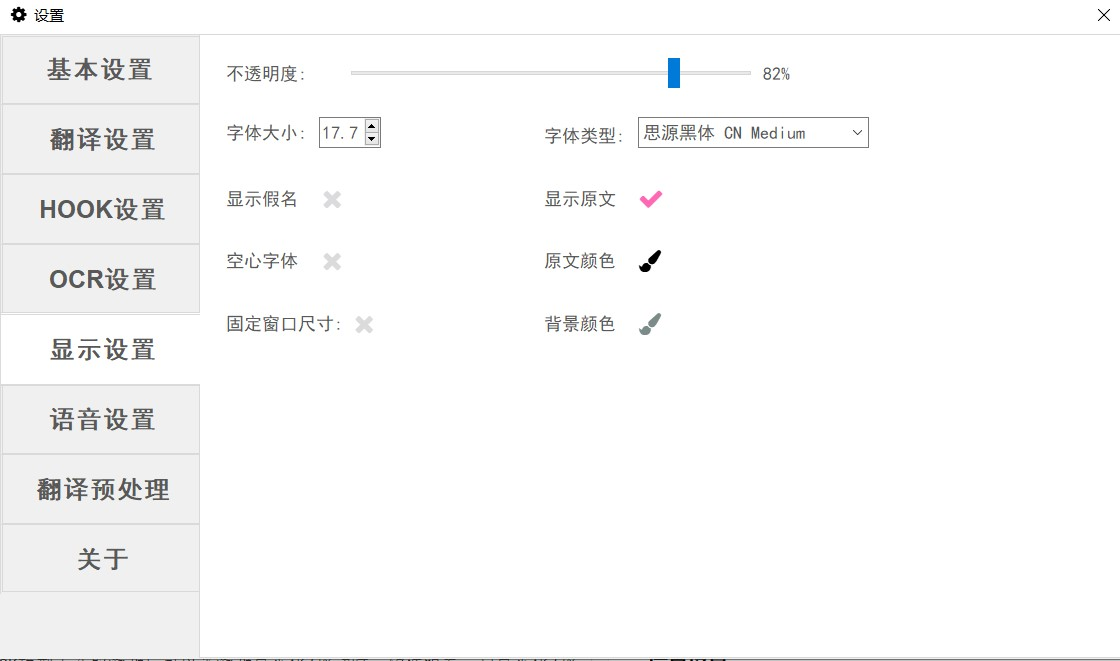
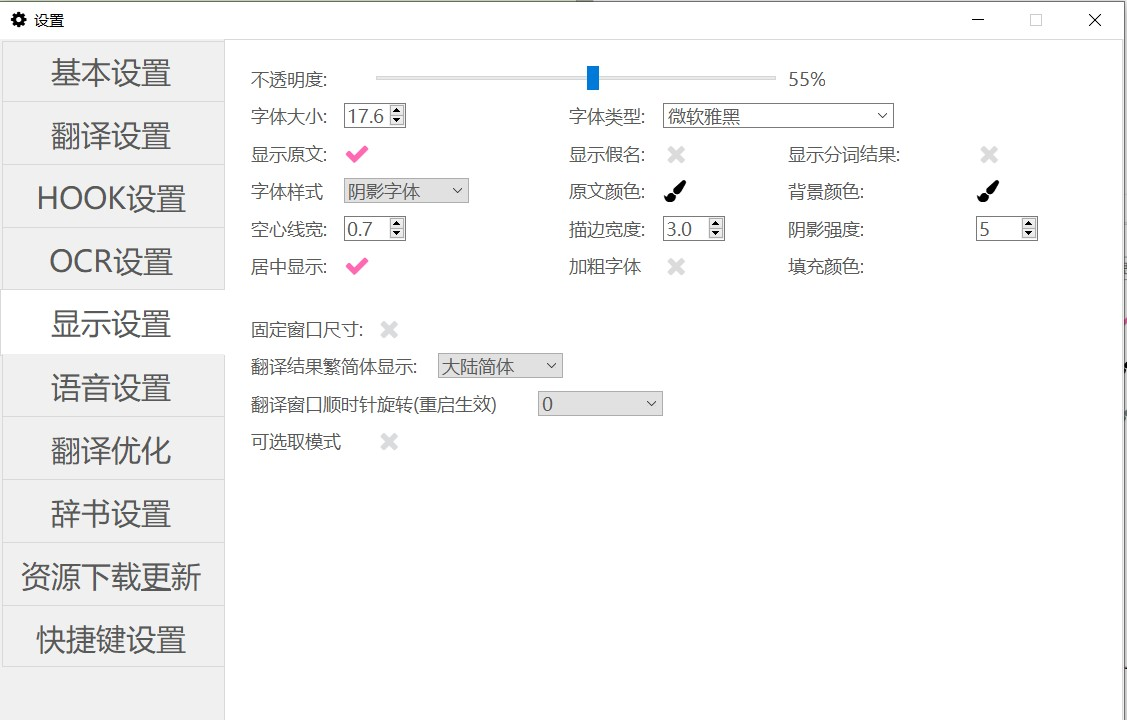
1

diff --git a/transpreset.md b/transpreset.md
@@ -4,6 +4,18 @@
 
 对于HOOK提取到的文本，有时会有一些不好的内容，这里可以设置对文本进行一些简单的处理操作
 
+其中包括一些常见的设置以及一些高级设置。
+
+使用简单替换内容可以将提取到的文本进行替换/过滤
+
+使用正则表达式替换需要用户了解python的reg.sub的使用方法
+
 使用专有名词手动翻译选项，支持使用用户配置的特殊名词词典（例如一些人名地名等）来优化翻译
 
-<div align="center"><img src='./docpics/23.jpg'></div>
+翻译结果修正发生在翻译结束后，名词翻译对于有的翻译引擎容易失效，可以强制替换翻译结果。
+
+本软件部分支持使用VNR共享辞书
+
+如果用户了解python语言，可以直接在LunaTranslator\LunaTranslator\postprocess\post.py文件中直接进行修改即可实现用户想要的任何处理过程。
+
+<div align="center"><img src='./docpics/10.jpg'></div>

diff --git a/showset.md b/showset.md
@@ -1,6 +1,16 @@
 
 # 显示设置
 
-一些常见的显示设置，不再赘述
+不透明度是窗口背景不透明度
+
+开启显示原文后，可以设置显示假名和显示分词结果
+
+字体样式支持四种字体样式（普通，空心，描边，阴影），后三种高级字体可以在“空心线宽”“描边宽度”“阴影强度”中分别进行设置。
+
+原文颜色可以设置原文的颜色，背景颜色可以设置窗口背景颜色。
+填充颜色是使用高级字体样式下的填充颜色
+
+可选取模式下可以在翻译窗口中选取内容。
+
 
 <div align="center"><img src='./docpics/7.jpg'></div>

diff --git a/voiceset.md b/voiceset.md
@@ -2,8 +2,13 @@
   
 # 语音设置
 
+WindowsTTS需要操作系统中安装日语相关组件。
+
+AzureTTS和火山TTS是在线tts，未来可能失效。
+
+VoiceRoid2是离线翻译引擎。
+
+VOICEVOX是一个开源TTS引擎，但是生成语音速度较慢。
+
 <div align="center"><img src='./docpics/8.jpg'></div>
-
-一般情况下可能只有两种语音（中文ZH-CN和英文EN-US），日文JA-JP需要在系统的语言设置里面安装支持。
-
-<div align="center"><img src='./docpics/9.jpg'><br>语音选择</div>
+ 

diff --git a/ocrset.md b/ocrset.md
@@ -3,4 +3,15 @@
 
 在OCR模式下，可以选择使用的OCR源
 
+其中本地OCR是内置的OCR引擎，可以无脑用。
+
+百度OCR/ocrspace/docsumo需要设置密钥。
+
+youdaoocr和youdao图片翻译是体验性接口，容易抽风。
+
+WindowsOCR需要操作系统中安装日语相关组件。
+
+设置“每隔一段时间必然进行一次OCR”后，设置OCR最长间隔时间，则每个x秒必然进行一个OCR，不管图片是否改变。
+
+
 <div align="center"><img src='./docpics/22.jpg'></div>

diff --git a/transset.md b/transset.md
@@ -15,6 +15,8 @@
 
 所有翻译器均可随意选择，没有数量限制。
 
+按钮分别是：是否使用翻译器/设置翻译文本显示颜色/设置
+
 其中，离线翻译&注册在线翻译&预翻译需要在使用前点击设置按钮进行设置。
 
 <div align="center"><img src='./docpics/trans.jpg'></div>

diff --git a/sidebar.md b/sidebar.md
@@ -3,7 +3,7 @@
   - [简介](README.md)
   - [资源下载](install.md) 
 
-- 使用 
+- 基本使用 
   - [开始](start.md)
   - [工具栏](toolbar.md) 
   - [基本设置](settin.md) 
